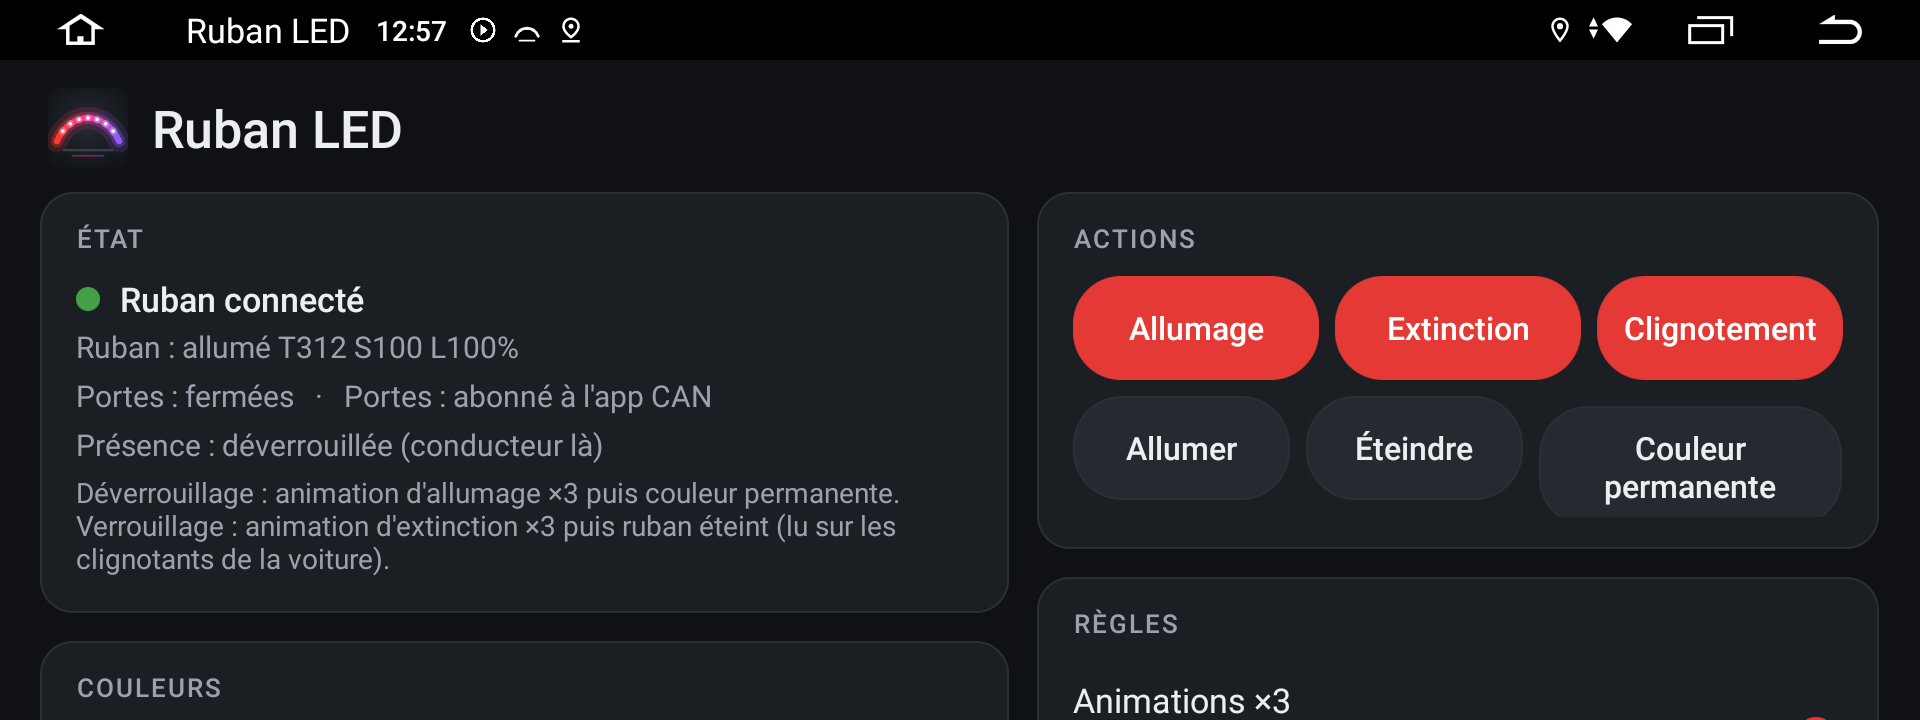
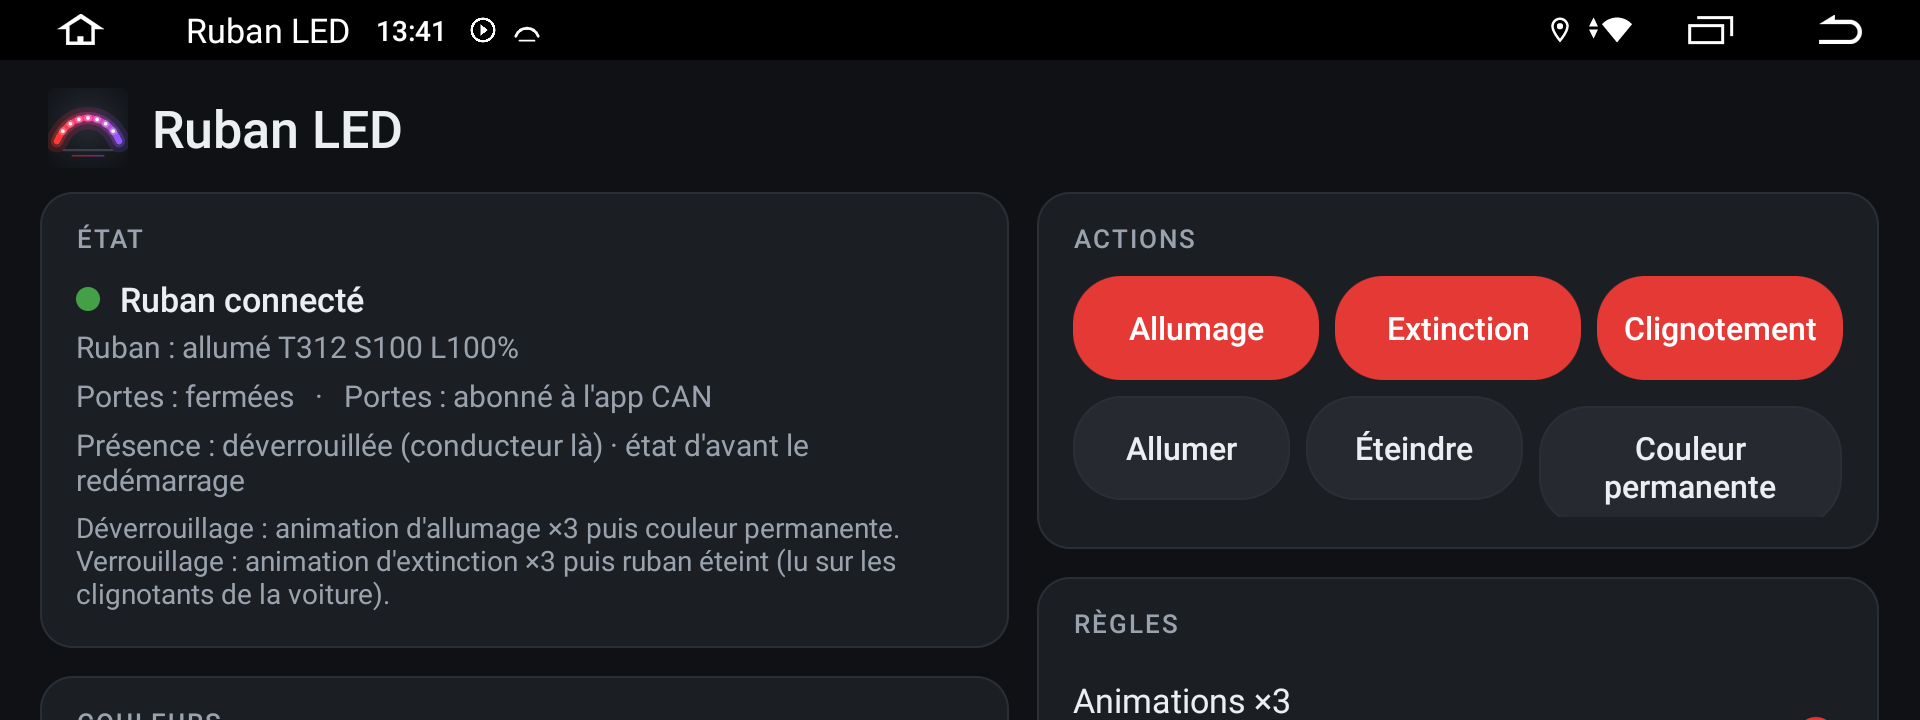
README: screenshots of 0.14 (locked colours, CarPlay music option)

diff --git a/README.md b/README.md
@@ -16,14 +16,19 @@ la voiture ni au MCU.
 
 ![État, présence et actions](docs/captures/1-etat-actions.png)
 
-Couleur permanente (ambiante) et couleur d'alerte, chacune avec sa roue et sa luminosité ; règles :
+Couleurs verrouillées par défaut (un bouton les débloque, pour qu'un doigt qui fait défiler la page
+ne change pas une couleur) ; règles :
 
-![Couleurs et règles](docs/captures/2-couleurs-regles.png)
+![Couleurs verrouillées et règles](docs/captures/2-couleurs-verrouillees-regles.png)
 
-Derniers événements (ici une porte ouverte alors que l'app croyait la voiture verrouillée : elle
-compte comme l'arrivée), adresse du ruban et mise à jour :
+Les deux roues grisées tant qu'elles sont verrouillées (couleur permanente, couleur d'alerte rouge) ;
+option « Musique à la connexion CarPlay » et son état :
 
-![Événements et mise à jour](docs/captures/3-evenements-mise-a-jour.png)
+![Roues verrouillées et musique à la connexion CarPlay](docs/captures/3-couleurs-musique-carplay.png)
+
+Derniers événements, adresse du ruban et mise à jour :
+
+![Événements et mise à jour](docs/captures/4-evenements-mise-a-jour.png)
 
 Documentation :
 - [docs/DONNEES-CAN.md](docs/DONNEES-CAN.md) : les champs lus, le relevé du verrouillage, ce qui
